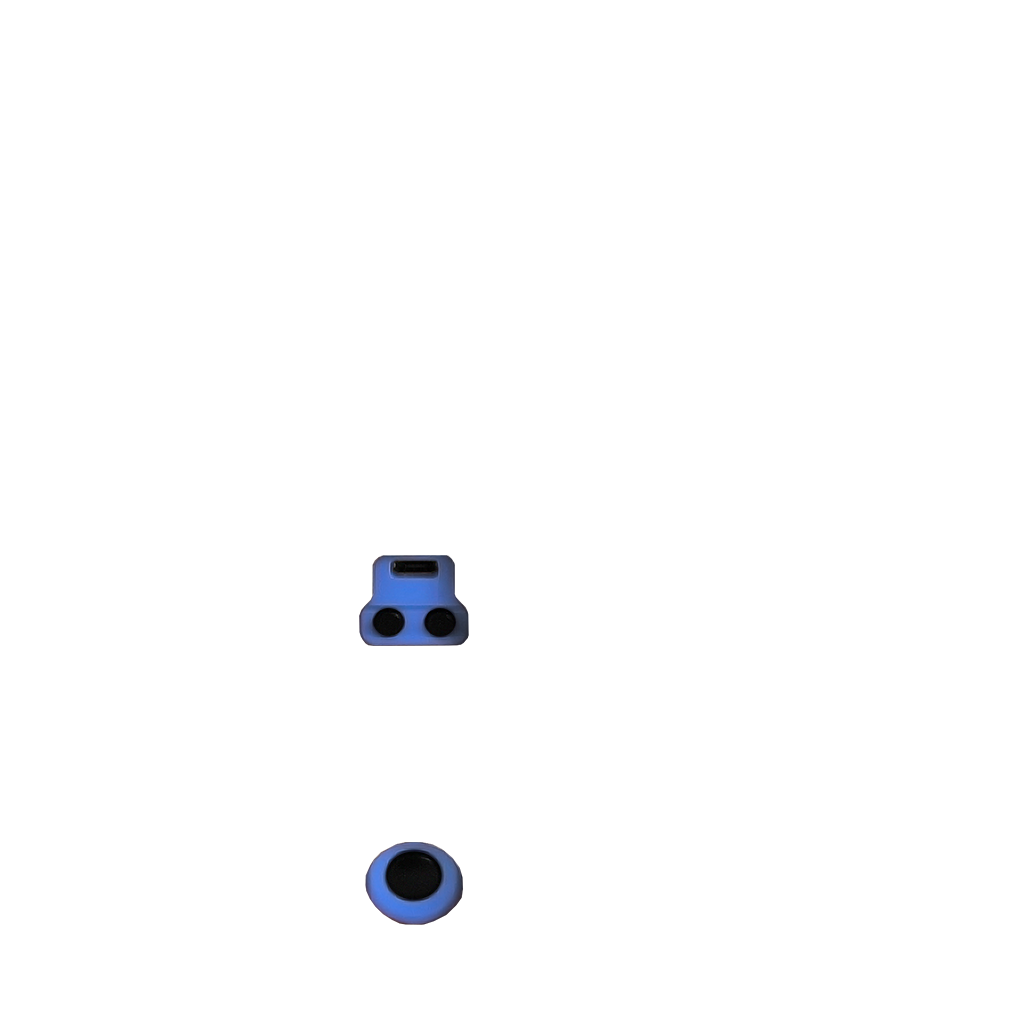
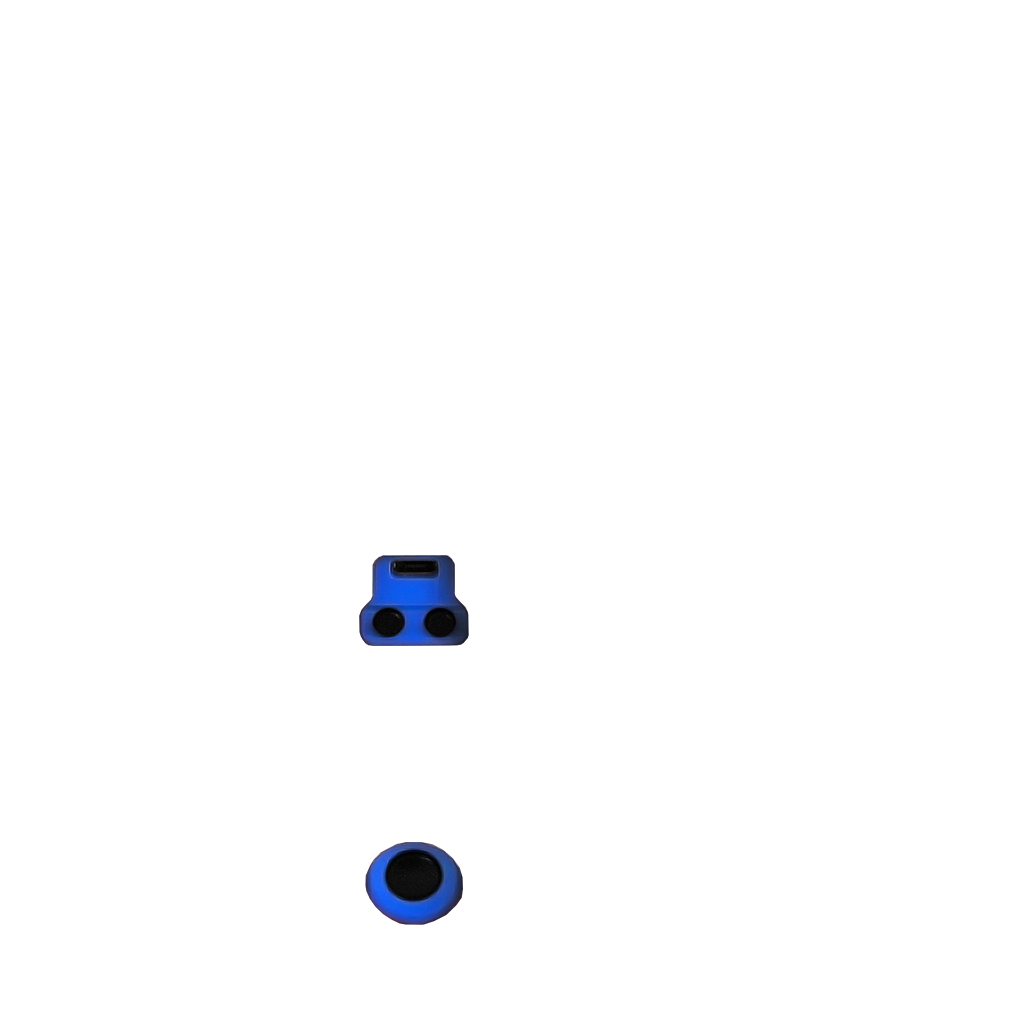
Improved blue vape color

Changed region(s): [[0.3438, 0.5312, 0.4688, 0.6562], [0.3438, 0.8125, 0.4688, 0.9062]]

diff --git a/styles.css b/styles.css
@@ -133,7 +133,7 @@ input[type=radio] {
         #212322 44%, #212322 55%,
         #FD564E 55%, #FD564E 66%,
         #FCA53D 66%, #FCA53D 77%,
-        #83ABFC 77%, #83ABFC 88%,
+        #0E5DEF 77%, #0E5DEF 88%,
         #BA3237 88%, #BA3237 99%);
 }
 
